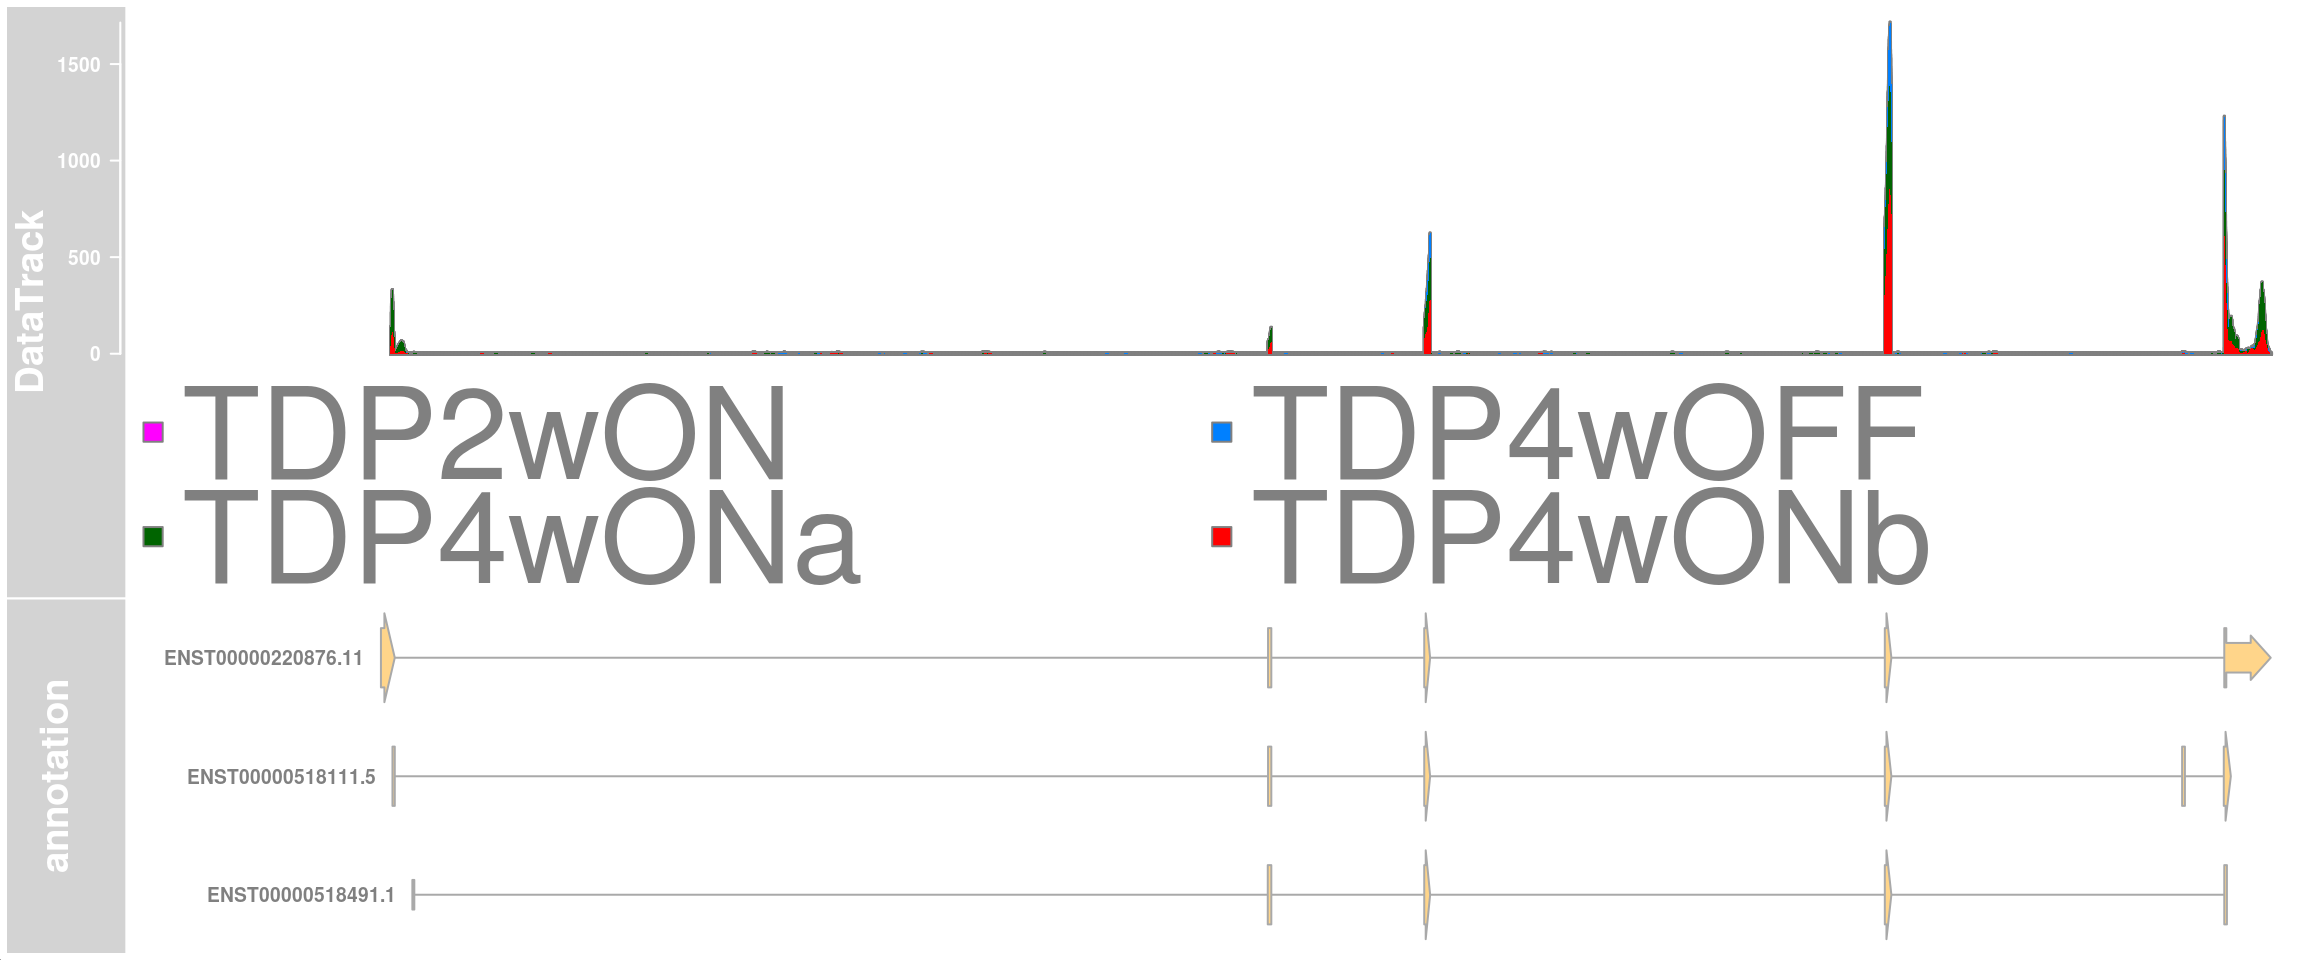
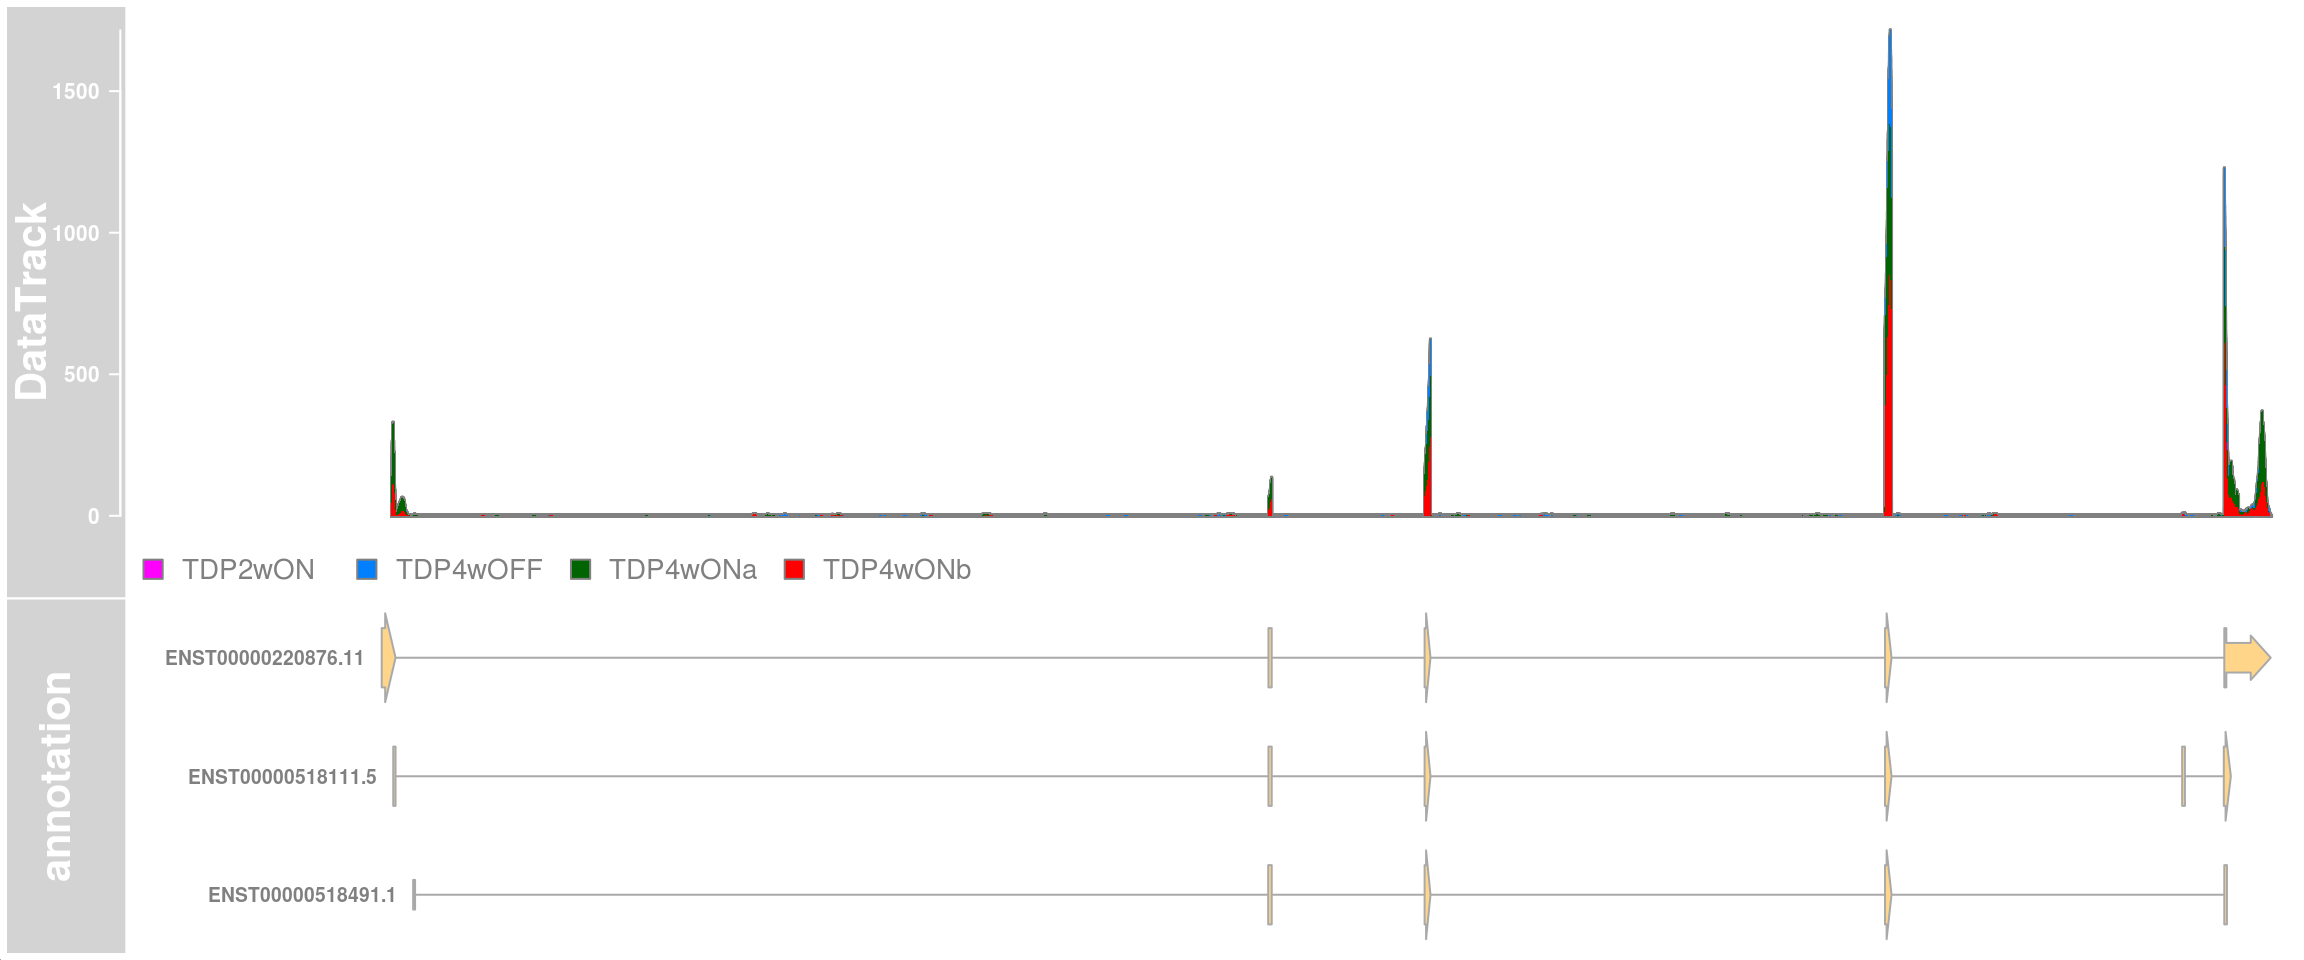
Build site.

diff --git a/docs/TDP-07-01-STMN2_expression.html b/docs/TDP-07-01-STMN2_expression.html
@@ -413,7 +413,7 @@ div.tocify {
 <div class="tab-content">
 <div id="summary" class="tab-pane fade in active">
 <p>
-<strong>Last updated:</strong> 2021-02-18
+<strong>Last updated:</strong> 2021-02-19
 </p>
 <p>
 <strong>Checks:</strong> <span class="glyphicon glyphicon-ok text-success" aria-hidden="true"></span> 7 <span class="glyphicon glyphicon-exclamation-sign text-danger" aria-hidden="true"></span> 0
@@ -504,16 +504,16 @@ This reproducible <a href="http://rmarkdown.rstudio.com">R Markdown</a> analysis
 <div class="panel panel-default">
 <div class="panel-heading">
 <p class="panel-title">
-<a data-toggle="collapse" data-parent="#workflowr-checks" href="#strongRepositoryversionstrongahrefhttpsgithubcomkhembachneuralscRNAseqtree1755a273dea1064cbda0362daca89c86cf476e36targetblank1755a27a"> <span class="glyphicon glyphicon-ok text-success" aria-hidden="true"></span> <strong>Repository version:</strong> <a href="https://github.com/khembach/neural_scRNAseq/tree/1755a273dea1064cbda0362daca89c86cf476e36" target="_blank">1755a27</a> </a>
+<a data-toggle="collapse" data-parent="#workflowr-checks" href="#strongRepositoryversionstrongahrefhttpsgithubcomkhembachneuralscRNAseqtree4ddbb0db1f0a94a96be64987f00d34f3a9046086targetblank4ddbb0da"> <span class="glyphicon glyphicon-ok text-success" aria-hidden="true"></span> <strong>Repository version:</strong> <a href="https://github.com/khembach/neural_scRNAseq/tree/4ddbb0db1f0a94a96be64987f00d34f3a9046086" target="_blank">4ddbb0d</a> </a>
 </p>
 </div>
[2 lines of base64/hex data omitted]
 <div class="panel-body">
 <p>
 Great! You are using Git for version control. Tracking code development and connecting the code version to the results is critical for reproducibility.
 </p>
 <p>
-The results in this page were generated with repository version <a href="https://github.com/khembach/neural_scRNAseq/tree/1755a273dea1064cbda0362daca89c86cf476e36" target="_blank">1755a27</a>. See the <em>Past versions</em> tab to see a history of the changes made to the R Markdown and HTML files.
+The results in this page were generated with repository version <a href="https://github.com/khembach/neural_scRNAseq/tree/4ddbb0db1f0a94a96be64987f00d34f3a9046086" target="_blank">4ddbb0d</a>. See the <em>Past versions</em> tab to see a history of the changes made to the R Markdown and HTML files.
 </p>
 <p>
 Note that you need to be careful to ensure that all relevant files for the analysis have been committed to Git prior to generating the results (you can use <code>wflow_publish</code> or <code>wflow_git_commit</code>). workflowr only checks the R Markdown file, but you know if there are other scripts or data files that it depends on. Below is the status of the Git repository when the results were generated:
@@ -783,6 +783,40 @@ Message
 Rmd
 </td>
 <td>
+<a href="https://github.com/khembach/neural_scRNAseq/blob/4ddbb0db1f0a94a96be64987f00d34f3a9046086/analysis/TDP-07-01-STMN2_expression.Rmd" target="_blank">4ddbb0d</a>
+</td>
+<td>
+khembach
+</td>
+<td>
+2021-02-19
+</td>
+<td>
+text size
+</td>
+</tr>
+<tr>
+<td>
+html
+</td>
+<td>
+<a href="https://rawcdn.githack.com/khembach/neural_scRNAseq/a7c4a5b9fc772bcb6014673ab5ad289bd80202a3/docs/TDP-07-01-STMN2_expression.html" target="_blank">a7c4a5b</a>
+</td>
+<td>
+khembach
+</td>
+<td>
+2021-02-18
+</td>
+<td>
+Build site.
+</td>
+</tr>
+<tr>
+<td>
+Rmd
+</td>
+<td>
 <a href="https://github.com/khembach/neural_scRNAseq/blob/1755a273dea1064cbda0362daca89c86cf476e36/analysis/TDP-07-01-STMN2_expression.Rmd" target="_blank">1755a27</a>
 </td>
 <td>
@@ -912,9 +946,46 @@ plotTracks(c(dtrack, eTrack),
            # chromosome = chr, from = region_start, to = region_end,
            shape = &quot;arrow&quot;, geneSymbols = TRUE, aggregateGroups=FALSE,
            groups = c(&quot;TDP4wOFF&quot;, &quot;TDP2wON&quot;, &quot;TDP4wONa&quot;, &quot;TDP4wONb&quot;),
-           stackedBars = FALSE, cex.legend = 4
+           stackedBars = FALSE, fontsize=13
            )</code></pre>
 <p><img src="figure/TDP-07-01-STMN2_expression.Rmd/stmn2-clus12-coverage-1.png" width="1152" style="display: block; margin: auto;" /></p>
+<p>
+<button type="button" class="btn btn-default btn-xs btn-workflowr btn-workflowr-fig" data-toggle="collapse" data-target="#fig-stmn2-clus12-coverage-1">
+Past versions of stmn2-clus12-coverage-1.png
+</button>
+</p>
+<div id="fig-stmn2-clus12-coverage-1" class="collapse">
+<div class="table-responsive">
+<table class="table table-condensed table-hover">
+<thead>
+<tr>
+<th>
+Version
+</th>
+<th>
+Author
+</th>
+<th>
+Date
+</th>
+</tr>
+</thead>
+<tbody>
+<tr>
+<td>
+<a href="https://github.com/khembach/neural_scRNAseq/blob/a7c4a5b9fc772bcb6014673ab5ad289bd80202a3/docs/figure/TDP-07-01-STMN2_expression.Rmd/stmn2-clus12-coverage-1.png" target="_blank">a7c4a5b</a>
+</td>
+<td>
+khembach
+</td>
+<td>
+2021-02-18
+</td>
+</tr>
+</tbody>
+</table>
+</div>
+</div>
 <pre class="r"><code>## one data track per sample
 dats &lt;- list(&quot;4wOFF&quot; = matrix(as.vector(covs[[1]]$chr8[region_start:region_end]),
                               nrow = 1, byrow = TRUE),
@@ -946,9 +1017,46 @@ plotTracks(c(dtrack_4wOFF, dtrack_2wON, dtrack_4wONa, dtrack_4wONb, eTrack),
            # chromosome = chr, from = region_start, to = region_end,
            shape = &quot;arrow&quot;, geneSymbols = TRUE, aggregateGroups=FALSE,
            # groups = c(&quot;TDP4wOFF&quot;, &quot;TDP2wON&quot;, &quot;TDP4wONa&quot;, &quot;TDP4wONb&quot;),
-           stackedBars = FALSE, cex.legend = 4
+           stackedBars = FALSE, fontsize=13
            )</code></pre>
 <p><img src="figure/TDP-07-01-STMN2_expression.Rmd/stmn2-clus12-coverage-2.png" width="1152" style="display: block; margin: auto;" /></p>
+<p>
+<button type="button" class="btn btn-default btn-xs btn-workflowr btn-workflowr-fig" data-toggle="collapse" data-target="#fig-stmn2-clus12-coverage-2">
+Past versions of stmn2-clus12-coverage-2.png
+</button>
+</p>
+<div id="fig-stmn2-clus12-coverage-2" class="collapse">
+<div class="table-responsive">
+<table class="table table-condensed table-hover">
+<thead>
+<tr>
+<th>
+Version
+</th>
+<th>
+Author
+</th>
+<th>
+Date
+</th>
+</tr>
+</thead>
+<tbody>
+<tr>
+<td>
+<a href="https://github.com/khembach/neural_scRNAseq/blob/a7c4a5b9fc772bcb6014673ab5ad289bd80202a3/docs/figure/TDP-07-01-STMN2_expression.Rmd/stmn2-clus12-coverage-2.png" target="_blank">a7c4a5b</a>
+</td>
+<td>
+khembach
+</td>
+<td>
+2021-02-18
+</td>
+</tr>
+</tbody>
+</table>
+</div>
+</div>
 <pre class="r"><code>## zoom into intron 1 that contains the cryptic exon
 chr &lt;- &quot;chr8&quot;
 region_start &lt;- 79611100
@@ -960,9 +1068,46 @@ plotTracks(c(dtrack_4wOFF, dtrack_2wON, dtrack_4wONa, dtrack_4wONb, eTrack),
            chromosome = chr, from = region_start, to = region_end,
            shape = &quot;arrow&quot;, geneSymbols = TRUE, aggregateGroups=FALSE,
            # groups = c(&quot;TDP4wOFF&quot;, &quot;TDP2wON&quot;, &quot;TDP4wONa&quot;, &quot;TDP4wONb&quot;),
-           stackedBars = FALSE, cex.legend = 4
+           stackedBars = FALSE, fontsize=13
            )</code></pre>
 <p><img src="figure/TDP-07-01-STMN2_expression.Rmd/stmn2-clus12-coverage-3.png" width="1152" style="display: block; margin: auto;" /></p>
+<p>
+<button type="button" class="btn btn-default btn-xs btn-workflowr btn-workflowr-fig" data-toggle="collapse" data-target="#fig-stmn2-clus12-coverage-3">
+Past versions of stmn2-clus12-coverage-3.png
+</button>
+</p>
+<div id="fig-stmn2-clus12-coverage-3" class="collapse">
+<div class="table-responsive">
+<table class="table table-condensed table-hover">
+<thead>
+<tr>
+<th>
+Version
+</th>
+<th>
+Author
+</th>
+<th>
+Date
+</th>
+</tr>
+</thead>
+<tbody>
+<tr>
+<td>
+<a href="https://github.com/khembach/neural_scRNAseq/blob/a7c4a5b9fc772bcb6014673ab5ad289bd80202a3/docs/figure/TDP-07-01-STMN2_expression.Rmd/stmn2-clus12-coverage-3.png" target="_blank">a7c4a5b</a>
+</td>
+<td>
+khembach
+</td>
+<td>
+2021-02-18
+</td>
+</tr>
+</tbody>
+</table>
+</div>
+</div>
 <br>
 <p>
 <button type="button" class="btn btn-default btn-workflowr btn-workflowr-sessioninfo" data-toggle="collapse" data-target="#workflowr-sessioninfo" style="display: block;">
